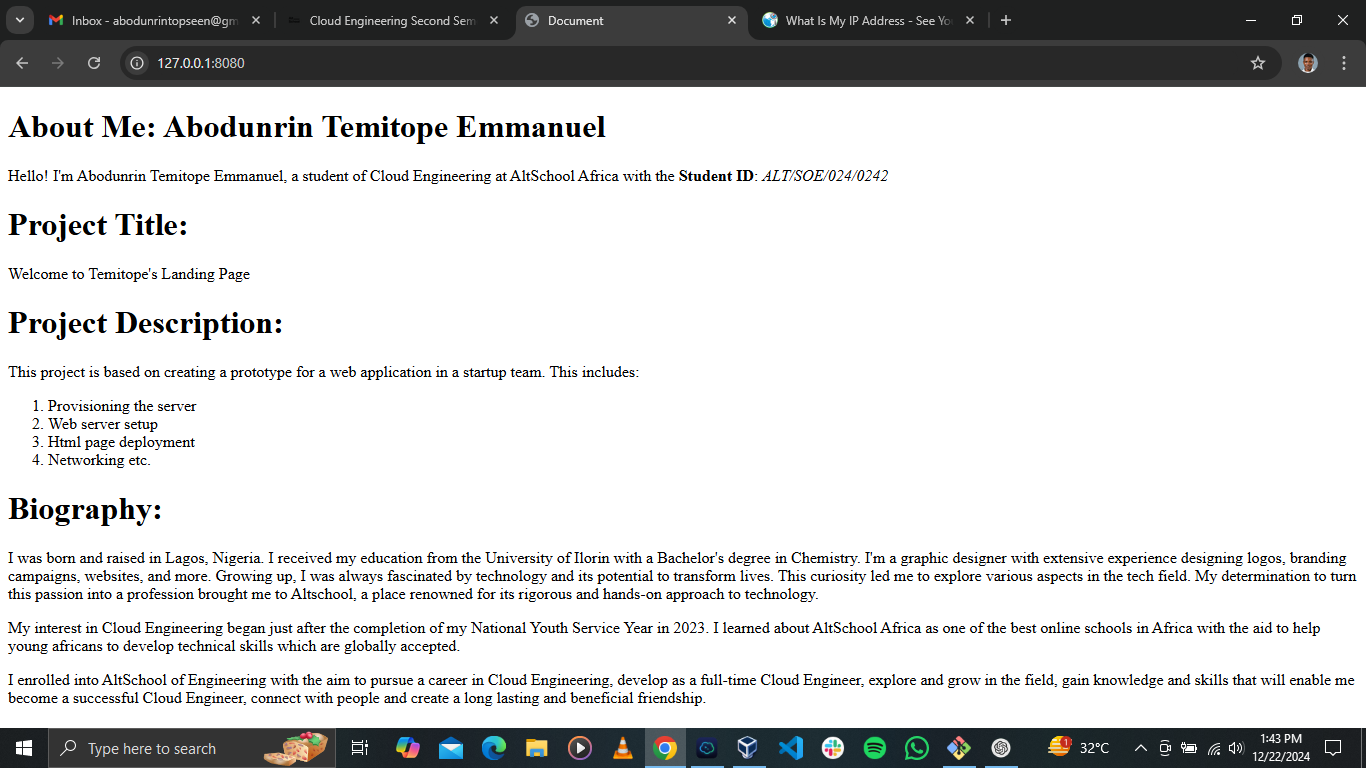
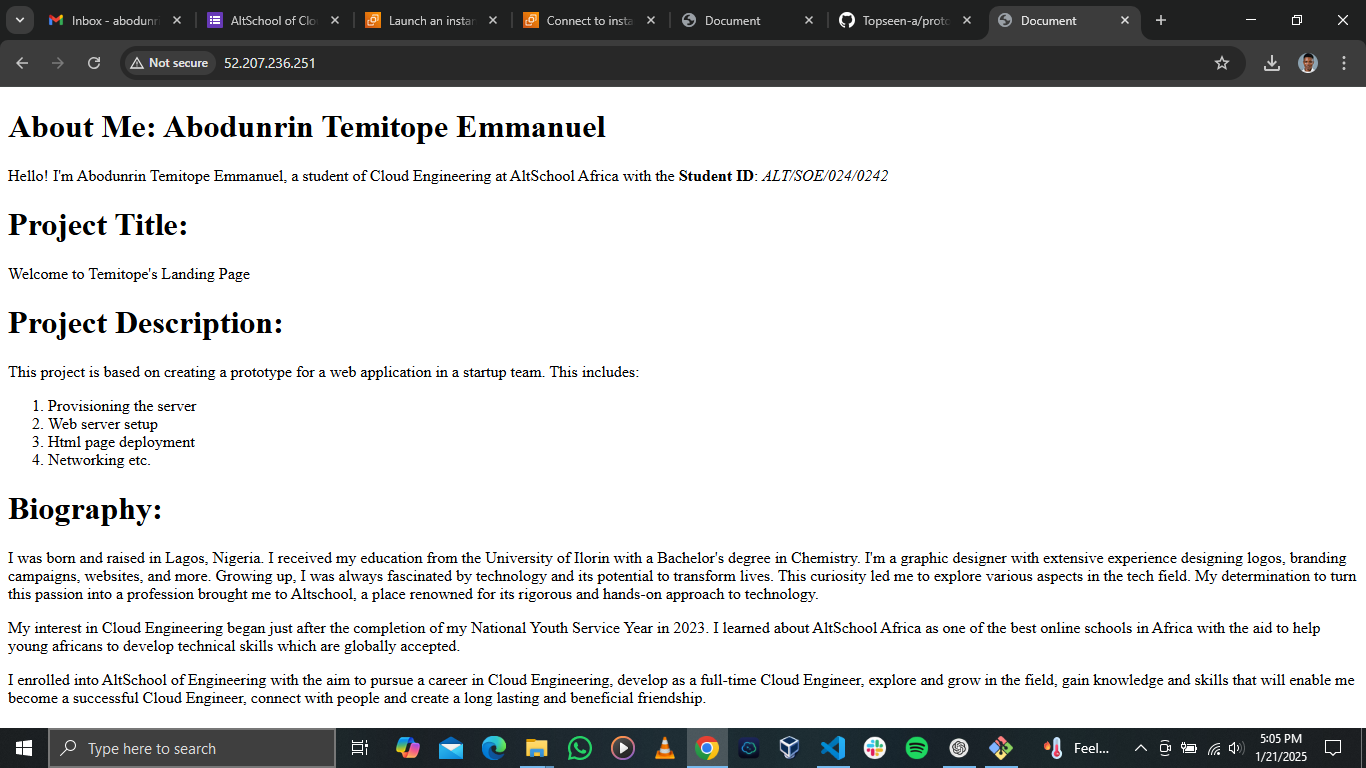
Updated Version

diff --git a/README.md b/README.md
@@ -3,15 +3,19 @@
 This repository contains the documentation and setup instructions for hosting a web page on a Linux-based virtual machine.
 
 ## Public IP Address
-- **Public IP Address**: `http://102.89.22.202/`
+- **Public IP Address**: `http://52.207.236.251/`
 - This is the IP you can use to access the web page from a browser.
 
 ## Screenshots
 - The  screenshot of the html page has been added in the images folder
 
 ## Provisioning the Server
-- I used VirtualBox to create a virtual machine, I chose Ubuntu 22.04 LTS for this setup. I created 
-a new vm, allocated resources such as CPU, memory, and disk space. I chose 2 GB of RAM and 20 GB of disk space.
+- I logged in to AWS Management Console
+- Launched an EC2 Instance
+- I entered a name for my instance, selected a Linux AMI (Amazon Machine Image), Ubuntu Server 22.04 LTS.
+- I chose t2.micro (free tier eligible)
+- I created a key pair to ssh into the instance
+- And then I connected to the instance using ssh to log into the server
 
 ## Installing the web server
 - In this case, I installed Apache as the web server using various commands like:
@@ -27,9 +31,4 @@ a new vm, allocated resources such as CPU, memory, and disk space. I chose 2 GB 
 - I verified the deployment by opening a web browser and visiting the internal IP address of my server
 
 ## Configuring the network
-- To make the web page accessible externally, I needed to configure port forwarding on my router to allow traffic on port 80 (HTTP) to reach my server.
-- I created a port forwarding rule as follows:
-External Port (or Src. Port): Set to 80 (for HTTP).
-Internal Port (or Dest. Port): Set to 80 (to match the web server's port).
-Internal IP Address: 10.0.2.15
-- I also configured the Firewall on the Server to ensure the firewall on my VM allows traffic on port 80 (HTTP)
+- To make the web page accessible externally, I needed to configure a new Security Group with HTTP (port 80) and SSH (port 22) rules
